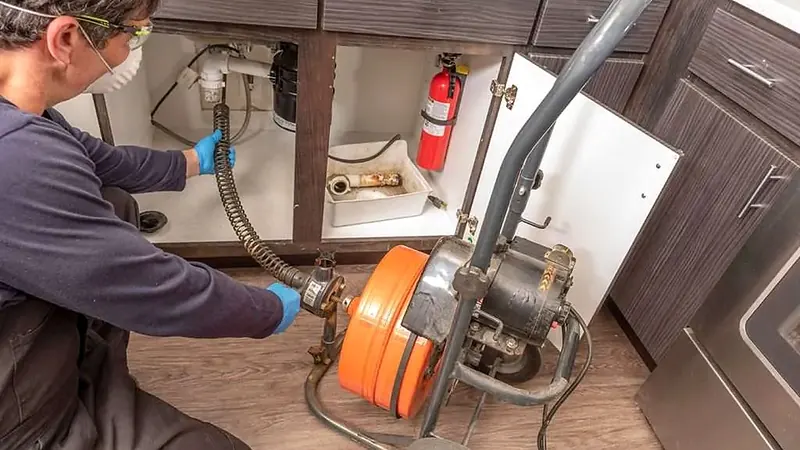
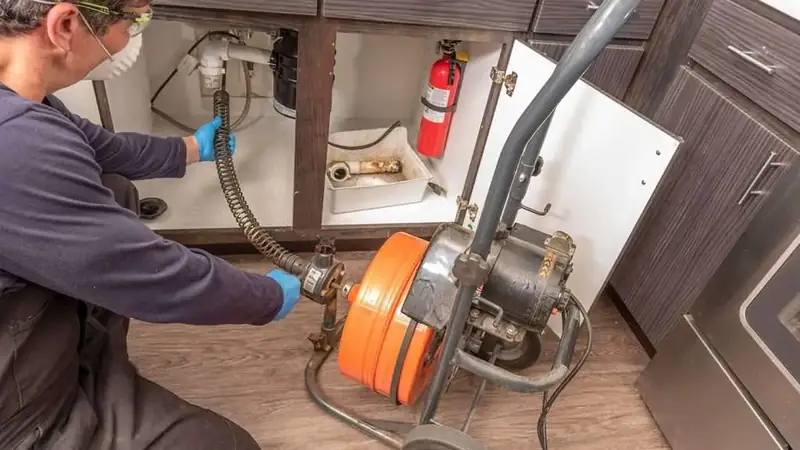
Brzina: hero na odgusenju vracen na izvornu rezoluciju, gustina slike na telefonu, preconnect
- odgusenje hero je bio uvecan sa 1024x684 na 1600x900, bez ijednog piksela
  detalja vise; sada 800w i 1024w, 121 KB -> 45 KB
- sizes 65vw na telefonu, jer je hero pod opacity .5 i tamnim gradijentom
  pa mu puna gustina ekrana ne treba; telefoni sa DPR 2-3 sada uzimaju 800w
- preconnect ka googletagmanager.com

diff --git a/odgusenje-kanalizacije/index.html b/odgusenje-kanalizacije/index.html
@@ -24,6 +24,7 @@ j=d.createElement(s),dl=l!='dataLayer'?'&l='+l:'';j.async=true;j.src=
 <meta property="og:image:height" content="630">
 <meta name="twitter:card" content="summary_large_image">
 
+<link rel="preconnect" href="https://www.googletagmanager.com" crossorigin>
 <link rel="icon" href="/slike/favicon.ico" sizes="any">
 <link rel="apple-touch-icon" href="/slike/apple-touch-icon.png">
 <meta name="theme-color" content="#0a1f3d">
@@ -105,8 +106,8 @@ height="0" width="0" style="display:none;visibility:hidden"></iframe></noscript>
   <section class="hero">
     <div class="hero__media" aria-hidden="true">
       <img src="/slike/odgusenje-hero-majstor-masina.webp"
-           srcset="/slike/odgusenje-hero-majstor-masina-800.webp 800w, /slike/odgusenje-hero-majstor-masina.webp 1600w"
-           sizes="100vw"
+           srcset="/slike/odgusenje-hero-majstor-masina-800.webp 800w, /slike/odgusenje-hero-majstor-masina.webp 1024w"
+           sizes="(max-width: 939px) 65vw, 100vw"
            alt="Vodoinstalater sa mašinom za odgušenje kanalizacije na intervenciji u Beogradu" width="1600" height="900"
            fetchpriority="high" decoding="async">
     </div>

diff --git a/detekcija-curenja-vode/index.html b/detekcija-curenja-vode/index.html
@@ -24,6 +24,7 @@ j=d.createElement(s),dl=l!='dataLayer'?'&l='+l:'';j.async=true;j.src=
 <meta property="og:image:height" content="630">
 <meta name="twitter:card" content="summary_large_image">
 
+<link rel="preconnect" href="https://www.googletagmanager.com" crossorigin>
 <link rel="icon" href="/slike/favicon.ico" sizes="any">
 <link rel="apple-touch-icon" href="/slike/apple-touch-icon.png">
 <meta name="theme-color" content="#0a1f3d">
@@ -102,7 +103,7 @@ height="0" width="0" style="display:none;visibility:hidden"></iframe></noscript>
     <div class="hero__media" aria-hidden="true">
       <img src="/slike/detekcija-hero-trazenje-curenja.webp"
            srcset="/slike/detekcija-hero-trazenje-curenja-700.webp 700w, /slike/detekcija-hero-trazenje-curenja.webp 1400w"
-           sizes="100vw"
+           sizes="(max-width: 939px) 65vw, 100vw"
            alt="Detekcija curenja vode termovizijskom kamerom na vlažnom zidu" width="1400" height="788"
            fetchpriority="high" decoding="async">
     </div>

diff --git a/adaptacija-kupatila/index.html b/adaptacija-kupatila/index.html
@@ -24,6 +24,7 @@ j=d.createElement(s),dl=l!='dataLayer'?'&l='+l:'';j.async=true;j.src=
 <meta property="og:image:height" content="630">
 <meta name="twitter:card" content="summary_large_image">
 
+<link rel="preconnect" href="https://www.googletagmanager.com" crossorigin>
 <link rel="icon" href="/slike/favicon.ico" sizes="any">
 <link rel="apple-touch-icon" href="/slike/apple-touch-icon.png">
 <meta name="theme-color" content="#0a1f3d">
@@ -102,7 +103,7 @@ height="0" width="0" style="display:none;visibility:hidden"></iframe></noscript>
     <div class="hero__media" aria-hidden="true">
       <img src="/slike/adaptacija-hero-gotovo-kupatilo.webp"
            srcset="/slike/adaptacija-hero-gotovo-kupatilo-800.webp 800w, /slike/adaptacija-hero-gotovo-kupatilo.webp 1600w"
-           sizes="100vw"
+           sizes="(max-width: 939px) 65vw, 100vw"
            alt="Renovirano kupatilo posle kompletne adaptacije u Beogradu" width="1600" height="900"
            fetchpriority="high" decoding="async">
     </div>

diff --git a/hitne-intervencije/index.html b/hitne-intervencije/index.html
@@ -24,6 +24,7 @@ j=d.createElement(s),dl=l!='dataLayer'?'&l='+l:'';j.async=true;j.src=
 <meta property="og:image:height" content="630">
 <meta name="twitter:card" content="summary_large_image">
 
+<link rel="preconnect" href="https://www.googletagmanager.com" crossorigin>
 <link rel="icon" href="/slike/favicon.ico" sizes="any">
 <link rel="apple-touch-icon" href="/slike/apple-touch-icon.png">
 <meta name="theme-color" content="#0a1f3d">
@@ -104,7 +105,7 @@ height="0" width="0" style="display:none;visibility:hidden"></iframe></noscript>
     <div class="hero__media" aria-hidden="true">
       <img src="/slike/hitne-hero-majstor-havarija.webp"
            srcset="/slike/hitne-hero-majstor-havarija-800.webp 800w, /slike/hitne-hero-majstor-havarija.webp 1600w"
-           sizes="100vw"
+           sizes="(max-width: 939px) 65vw, 100vw"
            alt="Dežurni vodoinstalater na hitnoj intervenciji u Beogradu" width="1600" height="900"
            fetchpriority="high" decoding="async">
     </div>

diff --git a/vodovodne-instalacije/index.html b/vodovodne-instalacije/index.html
@@ -24,6 +24,7 @@ j=d.createElement(s),dl=l!='dataLayer'?'&l='+l:'';j.async=true;j.src=
 <meta property="og:image:height" content="630">
 <meta name="twitter:card" content="summary_large_image">
 
+<link rel="preconnect" href="https://www.googletagmanager.com" crossorigin>
 <link rel="icon" href="/slike/favicon.ico" sizes="any">
 <link rel="apple-touch-icon" href="/slike/apple-touch-icon.png">
 <meta name="theme-color" content="#0a1f3d">
@@ -102,7 +103,7 @@ height="0" width="0" style="display:none;visibility:hidden"></iframe></noscript>
     <div class="hero__media" aria-hidden="true">
       <img src="/slike/instalacije-hero-razvod.webp"
            srcset="/slike/instalacije-hero-razvod-800.webp 800w, /slike/instalacije-hero-razvod.webp 1600w"
-           sizes="100vw"
+           sizes="(max-width: 939px) 65vw, 100vw"
            alt="Nov razvod vodovodnih instalacija u kupatilu u Beogradu" width="1600" height="900"
            fetchpriority="high" decoding="async">
     </div>

diff --git a/sitne-popravke/index.html b/sitne-popravke/index.html
@@ -24,6 +24,7 @@ j=d.createElement(s),dl=l!='dataLayer'?'&l='+l:'';j.async=true;j.src=
 <meta property="og:image:height" content="630">
 <meta name="twitter:card" content="summary_large_image">
 
+<link rel="preconnect" href="https://www.googletagmanager.com" crossorigin>
 <link rel="icon" href="/slike/favicon.ico" sizes="any">
 <link rel="apple-touch-icon" href="/slike/apple-touch-icon.png">
 <meta name="theme-color" content="#0a1f3d">
@@ -102,7 +103,7 @@ height="0" width="0" style="display:none;visibility:hidden"></iframe></noscript>
     <div class="hero__media" aria-hidden="true">
       <img src="/slike/popravke-hero-vodokotlic.webp"
            srcset="/slike/popravke-hero-vodokotlic-800.webp 800w, /slike/popravke-hero-vodokotlic.webp 1600w"
-           sizes="100vw"
+           sizes="(max-width: 939px) 65vw, 100vw"
            alt="Popravka vodokotlića u kupatilu u Beogradu" width="1600" height="900"
            fetchpriority="high" decoding="async">
     </div>

diff --git a/ugradnja-sanitarija/index.html b/ugradnja-sanitarija/index.html
@@ -24,6 +24,7 @@ j=d.createElement(s),dl=l!='dataLayer'?'&l='+l:'';j.async=true;j.src=
 <meta property="og:image:height" content="630">
 <meta name="twitter:card" content="summary_large_image">
 
+<link rel="preconnect" href="https://www.googletagmanager.com" crossorigin>
 <link rel="icon" href="/slike/favicon.ico" sizes="any">
 <link rel="apple-touch-icon" href="/slike/apple-touch-icon.png">
 <meta name="theme-color" content="#0a1f3d">
@@ -102,7 +103,7 @@ height="0" width="0" style="display:none;visibility:hidden"></iframe></noscript>
     <div class="hero__media" aria-hidden="true">
       <img src="/slike/sanitarije-hero-montaza.webp"
            srcset="/slike/sanitarije-hero-montaza-800.webp 800w, /slike/sanitarije-hero-montaza.webp 1600w"
-           sizes="100vw"
+           sizes="(max-width: 939px) 65vw, 100vw"
            alt="Ugradnja sanitarija u kupatilu u Beogradu" width="1600" height="900"
            fetchpriority="high" decoding="async">
     </div>

diff --git a/index.html b/index.html
@@ -24,6 +24,7 @@ j=d.createElement(s),dl=l!='dataLayer'?'&l='+l:'';j.async=true;j.src=
 <meta property="og:image:height" content="630">
 <meta name="twitter:card" content="summary_large_image">
 
+<link rel="preconnect" href="https://www.googletagmanager.com" crossorigin>
 <link rel="icon" href="/slike/favicon.ico" sizes="any">
 <link rel="apple-touch-icon" href="/slike/apple-touch-icon.png">
 <meta name="theme-color" content="#0a1f3d">
@@ -102,7 +103,7 @@ height="0" width="0" style="display:none;visibility:hidden"></iframe></noscript>
     <div class="hero__media" aria-hidden="true">
       <img src="/slike/home-hero-majstor.webp"
            srcset="/slike/home-hero-majstor-800.webp 800w, /slike/home-hero-majstor.webp 1600w"
-           sizes="100vw"
+           sizes="(max-width: 939px) 65vw, 100vw"
            alt="Vodoinstalater u Beogradu na intervenciji" width="1600" height="900"
            fetchpriority="high" decoding="async">
     </div>

diff --git a/404.html b/404.html
@@ -23,6 +23,7 @@ j=d.createElement(s),dl=l!='dataLayer'?'&l='+l:'';j.async=true;j.src=
 <meta property="og:image:height" content="630">
 <meta name="twitter:card" content="summary_large_image">
 
+<link rel="preconnect" href="https://www.googletagmanager.com" crossorigin>
 <link rel="icon" href="/slike/favicon.ico" sizes="any">
 <link rel="apple-touch-icon" href="/slike/apple-touch-icon.png">
 <meta name="theme-color" content="#0a1f3d">

diff --git a/hvala/index.html b/hvala/index.html
@@ -25,6 +25,7 @@ j=d.createElement(s),dl=l!='dataLayer'?'&l='+l:'';j.async=true;j.src=
 <meta property="og:image:height" content="630">
 <meta name="twitter:card" content="summary_large_image">
 
+<link rel="preconnect" href="https://www.googletagmanager.com" crossorigin>
 <link rel="icon" href="/slike/favicon.ico" sizes="any">
 <link rel="apple-touch-icon" href="/slike/apple-touch-icon.png">
 <meta name="theme-color" content="#0a1f3d">

diff --git a/kontakt/index.html b/kontakt/index.html
@@ -24,6 +24,7 @@ j=d.createElement(s),dl=l!='dataLayer'?'&l='+l:'';j.async=true;j.src=
 <meta property="og:image:height" content="630">
 <meta name="twitter:card" content="summary_large_image">
 
+<link rel="preconnect" href="https://www.googletagmanager.com" crossorigin>
 <link rel="icon" href="/slike/favicon.ico" sizes="any">
 <link rel="apple-touch-icon" href="/slike/apple-touch-icon.png">
 <meta name="theme-color" content="#0a1f3d">
